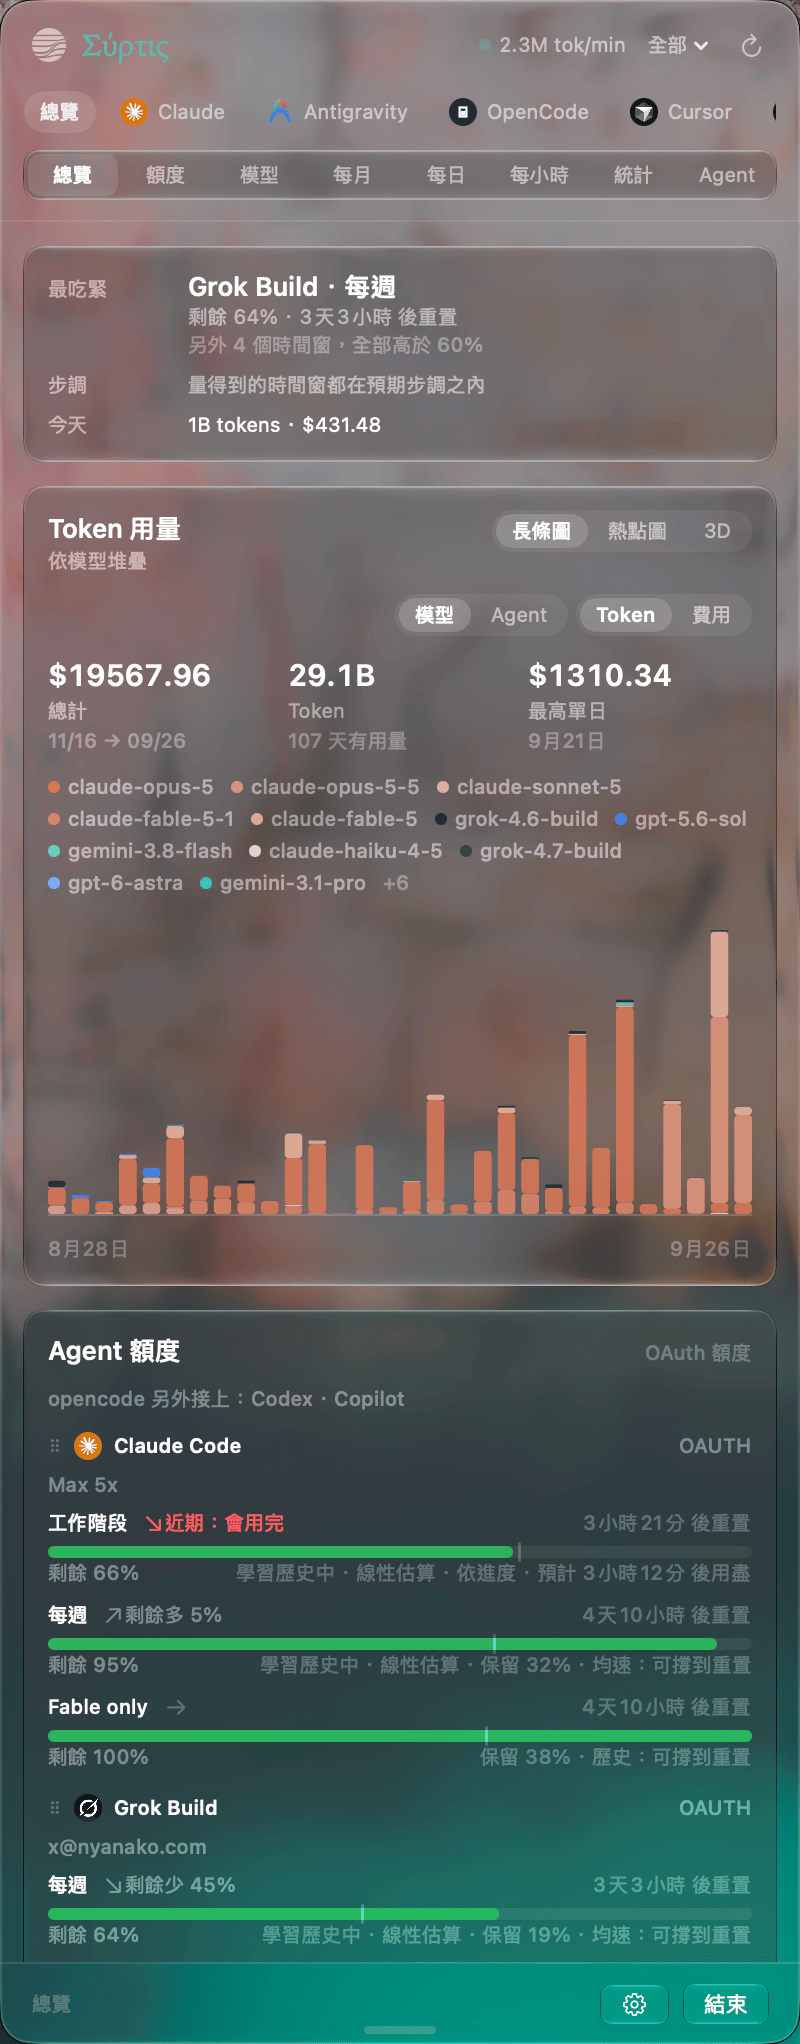
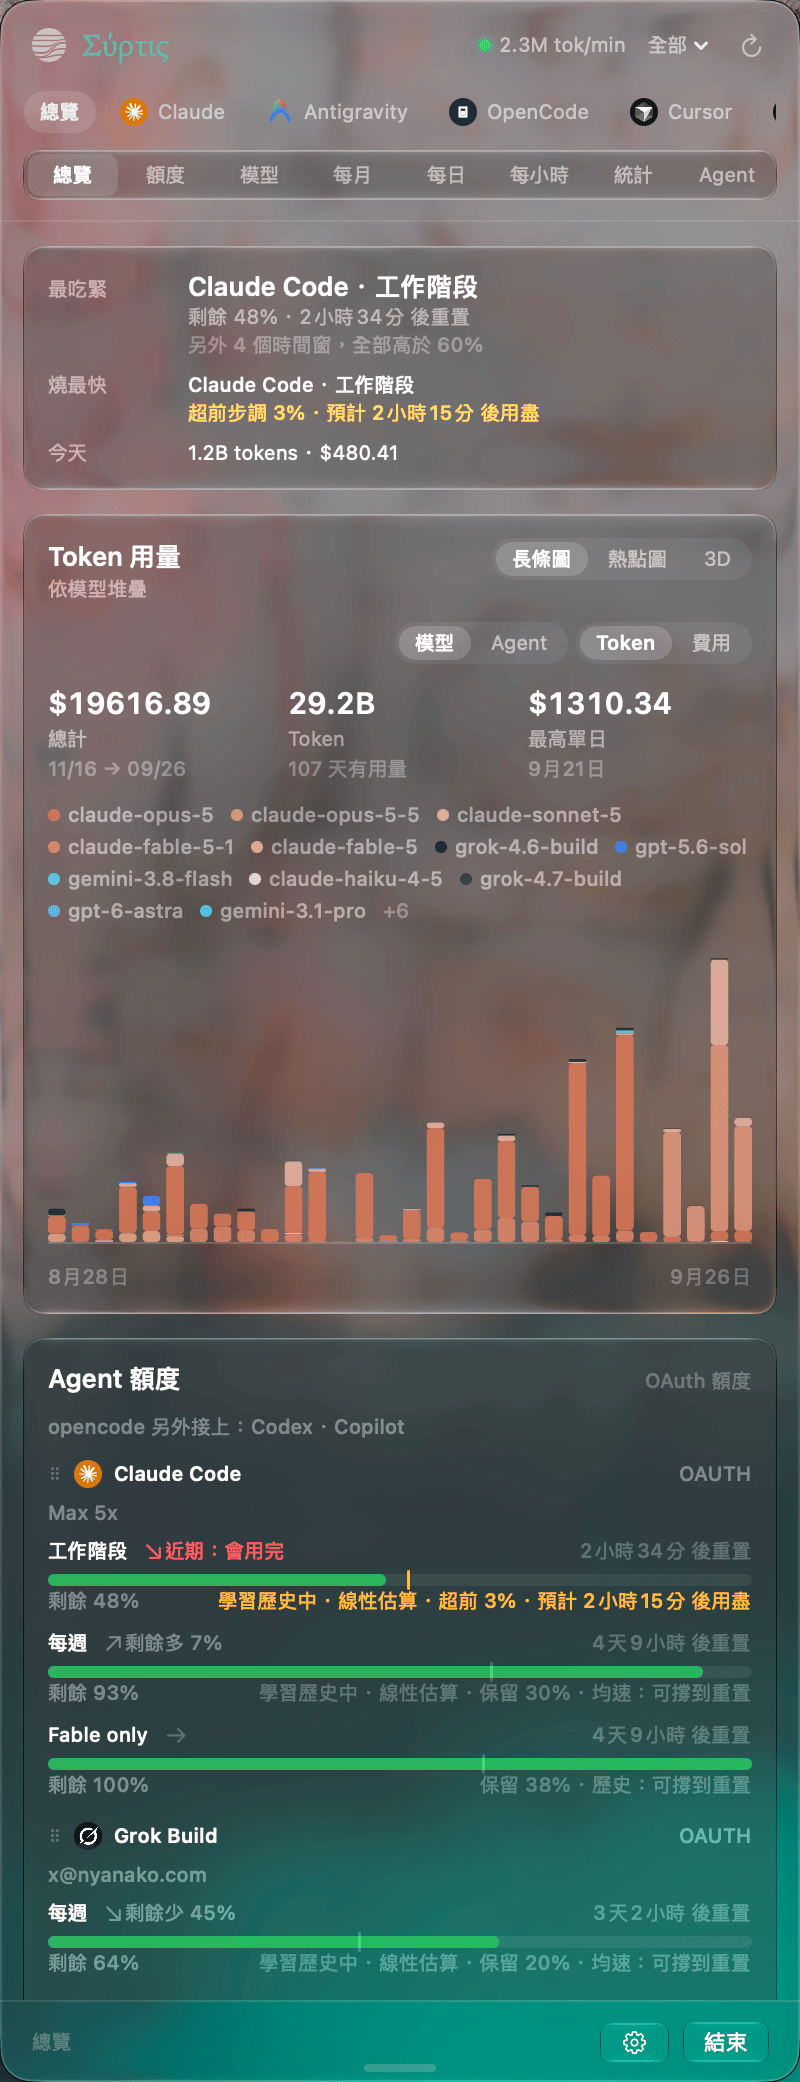
docs(readme): top each README with the Syrtis card in its language
The image at the top of every README was the TokenBar-era
`landing/public/og-card-v4.png`. Each README now shows the Syrtis share card
in its own language: `docs/screenshots/og-card.png`, `zh-TW/og-card.png` and
`zh-CN/og-card.png` (the landing's v5 cards, rendered from
`landing/og-src/og.html`, pngquant-compressed to about 0.1 MB each). The alt
text now matches the card: "where your tokens settle" / 「積沙成洲」.

The cards live under `docs/screenshots/` rather than pointing into
`landing/public/`, because the landing rebuild that adds them merges after
this PR; a README link into `landing/` would show a broken image until then.

`zh-TW/overview.png` is also retaken so its summary card matches the English
and Simplified captures.

diff --git a/README.zh-CN.md b/README.zh-CN.md
@@ -22,7 +22,7 @@
 在 2.0 版本之前，本软件在 macOS 上名为 TokenBar；升级至 2.0 会完整保留原有的偏好设置、历史记录与开机启动项。同时提供基于相同 Rust 核心构建的 Windows 系统托盘版本 [Syrtis](https://github.com/Nanako0129/Syrtis-Windows)。
 
 <p align="center">
-  <img src="landing/public/og-card-v4.png" alt="Syrtis — 从 macOS 菜单栏掌握每一枚消耗的 AI token" width="800">
+  <img src="docs/screenshots/zh-CN/og-card.png" alt="Syrtis：积沙成洲" width="800">
 </p>
 
 菜单栏标题可显示今日 token 用量、花费、实时每分钟消耗速率，或当前窗口剩余的订阅额度——呈现方式包括信号格、环形进度条，或随着时间窗口消耗而逐渐融化的冰棒。菜单栏上的猫咪会随着用量上升越转越快，这一设计源自 Takuto Nakamura 开发的 [RunCat](https://kyome.io/runcat/)。

diff --git a/README.zh-TW.md b/README.zh-TW.md
@@ -22,7 +22,7 @@
 在 2.0 版本之前，本軟體在 macOS 上名為 TokenBar；升級至 2.0 版會完整保留原有的偏好設定、歷史紀錄與開機啟動項目。另外也提供採用相同 Rust 核心打造的 Windows 系統匣版本 [Syrtis](https://github.com/Nanako0129/Syrtis-Windows)。
 
 <p align="center">
-  <img src="landing/public/og-card-v4.png" alt="Syrtis — 從 macOS 選單列掌握每一枚消耗的 AI token" width="800">
+  <img src="docs/screenshots/zh-TW/og-card.png" alt="Syrtis：積沙成洲" width="800">
 </p>
 
 選單列標題可顯示今日的 token 數量、花費、即時每分鐘 token 消耗速率，或是剩餘的訂閱額度——並以訊號格、環形進度條或隨時間窗消耗而融化的冰棒呈現。選單列上的貓咪會隨著用量攀升越轉越快，這個設計源自 Takuto Nakamura 開發的 [RunCat](https://kyome.io/runcat/)。

diff --git a/README.md b/README.md
@@ -22,7 +22,7 @@
 Until version 2.0, the app was called TokenBar on macOS; upgrading preserves your settings, history, and login item unchanged. A companion Windows tray version, also named [Syrtis](https://github.com/Nanako0129/Syrtis-Windows), is built on the same Rust core.
 
 <p align="center">
-  <img src="landing/public/og-card-v4.png" alt="Syrtis — know every AI token you burn from the macOS menu bar" width="800">
+  <img src="docs/screenshots/og-card.png" alt="Syrtis — where your tokens settle" width="800">
 </p>
 
 The menu-bar title displays today's token count, total cost, live tokens per minute, or remaining subscription quota—shown as signal bars, a progress ring, or a popsicle that melts as the window drains. The menu-bar cat spins faster the more tokens you burn, tracing back to [RunCat](https://kyome.io/runcat/) by Takuto Nakamura.
